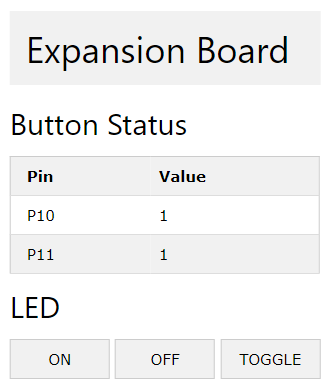
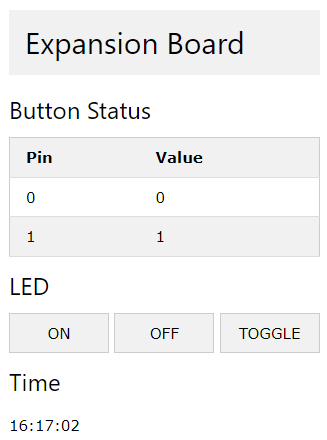
Add files via upload

diff --git a/index.html b/index.html
@@ -12,9 +12,9 @@
 <body>
   <div class="w3-container" style="width:fit-content">
     <div class="w3-panel w3-light-gray">
-      <h1> Expansion Board </h1>
+      <h2> Expansion Board </h2>
     </div>
-    <h2> Button Status </h2>
+    <h3> Button Status </h3>
     <table class="w3-table-all">
       <thead>
         <tr class="w3-light-grey">
@@ -23,13 +23,15 @@
         </tr>
       </thead>
       <tbody id="rows">
-        <!-- use Javascript to fill this space with the table content -->
+        <!-- use JavaScript to fill this space with the table content -->
       </tbody>
     </table>
-    <h2> LED </h2>
+    <h3> LED </h3>
     <button name="LED" value="On" onclick="onClickEvent(event)" class="w3-btn w3-border w3-light-gray" style="width:100px"> ON </button>
     <button name="LED" value="Off" onclick="onClickEvent(event)" class="w3-btn w3-border w3-light-gray" style="width:100px"> OFF </button>
     <button name="LED" value="On" onclick="onToggleEvent(event)" class="w3-btn w3-border w3-light-gray" style="width:100px"> TOGGLE </button>
+    <h3> Time </h3>
+    <p id="time"> hh:mm:ss </p>
   </div>
   <script>
     "use strict";
@@ -61,7 +63,7 @@
       console.log("fetch error:", error);
     }
 
-    // Click on the ON or OFF button
+    // Handle click on the ON or OFF button
     function onClickEvent(event) {
       var element = event.target;
       fetch("/api/button?".concat(element.name, "=", element.value))
@@ -73,7 +75,7 @@
         .catch(logError);
     }
 
-    // Click on the TOGGLE button
+    // Handle click on the TOGGLE button
     function onToggleEvent(event) {
       fetch("/api/toggle")
         .then(validateResponse)
@@ -95,10 +97,10 @@
         })
         .catch(logError);
 
-      // Setup client side event listener
-      const eventSource = new EventSource("/api/pin");
+      // Setup pin event listener
+      const pinEventSource = new EventSource("/api/pin");
 
-      eventSource.addEventListener("pin_change", (event) => {
+      pinEventSource.addEventListener("pin_change", (event) => {
         var data = JSON.parse(event.data);
         console.log("pin_change event:", event, "data:", data);
         for (var key in data) {
@@ -106,20 +108,32 @@
         }
       });
 
-      eventSource.onopen = (event) => {
-        console.log("pin_change open", event);
+      pinEventSource.onopen = (event) => {
+        console.log(pinEventSource.url, "open");
       };
 
-      eventSource.onmessage = (event) => {
-        console.log("message without event type, data =", event.data);
+      pinEventSource.onmessage = (event) => {
+        console.log(pinEventSource.url, "message without event type, data =", event.data);
       };
 
-      eventSource.onerror = (event) => {
-        console.log("pin_change error", event);
-        eventSource.close();  // release resources; only do this if you do not want auto reconnect
+      pinEventSource.onerror = (event) => {
+        console.log(pinEventSource.url, "error");
+        pinEventSource.close();  // release resources; only do this if you do not want auto reconnect
       };
 
-    }
+      // Setup time event listener
+      const timeEventSource = new EventSource("/api/time");
+
+      timeEventSource.addEventListener("time", (event) => {
+        document.getElementById("time").innerHTML = event.data;
+      });
+
+      timeEventSource.onerror = (event) => {
+        console.log(timeEventSource.url, "error");
+        timeEventSource.close();
+      };
+
+    }  // onLoadEvent
 
     window.onload = onLoadEvent();
   </script>

diff --git a/main.py b/main.py
@@ -1,4 +1,5 @@
 import json
+import time
 
 import uasyncio as asyncio
 from machine import Pin, Signal
@@ -6,7 +7,8 @@ from uasyncio import Event
 
 import abutton
 import expboard2
-from ahttpserver import (CRLF, MimeType, ResponseHeader, Server, StatusLine, sendfile)
+from ahttpserver import Server, sendfile
+from ahttpserver.response import CRLF, MimeType, ResponseHeader, StatusLine
 from ahttpserver.sse import EventSource
 
 
@@ -24,7 +26,6 @@ pb_event = Event()  # pushbutton event
 @app.route("GET", "/api/pin")
 async def api_pin(reader, writer, request):
     eventsource = await EventSource.upgrade(reader, writer)
-    await eventsource.retry(5000)
     while True:
         await pb_event.wait()
         pb_event.clear()
@@ -35,6 +36,18 @@ async def api_pin(reader, writer, request):
             await eventsource.send(event="pin_change", data=json.dumps(d))
         except Exception as e:  # catch (a.o.) ECONNRESET when the client has disappeared
             print("api_pin exception:", e)  # debug
+            break  # close connection
+
+
+@app.route("GET", "/api/time")
+async def api_time(reader, writer, request):
+    eventsource = await EventSource.upgrade(reader, writer)
+    while True:
+        await asyncio.sleep(1)
+        t = time.localtime()
+        try:
+            await eventsource.send(event="time", data=f"{t[3]:02d}:{t[4]:02d}:{t[5]:02d}")
+        except Exception:
             break  # close connection
 
 

diff --git a/README.md b/README.md
@@ -1,5 +1,5 @@
 # MicroPython web interface using server-sent events and JavaScript
-A MicroPython and JavaScript based web interface for a WiPy to control the LED and display the user button status on a Pycom Expansion Board 2.0
+A MicroPython and JavaScript based web user interface for a WiPy to control the LED and display the user button status on a Pycom Expansion Board 2.0
 
 ### Summary
 Pycoms Expansion Board 2.0 contains a user controllable led and a push-button. In [this repository](https://github.com/erikdelange/WiPy-2.0-Web-Interface) a simple web interface was presented to control this led and display the status of the button (plus one additional input pin). This solution has two disadvantages.
@@ -9,7 +9,7 @@ Pycoms Expansion Board 2.0 contains a user controllable led and a push-button. I
 This example shows how server-sent events and JavaScript help to solve these issues and streamline the communication between server and client.
 
 ### HTML and JavaScript
-The HTML code in *index.html* uses the W3.CSS framework for formatting the web page. The key elements to look for in the HTML code are the empty line where a javascript function will place the table body which holds the status of the WiPy's buttons, and the three buttons to switch the led on, off or toggle it.
+The HTML code in *index.html* uses the W3.CSS framework for formatting the web page. The key elements to look for in the HTML code are the empty line where a javascript function will place the table body which holds the status of the WiPy's buttons, and the three buttons to switch the led on, off or toggle it. Additionally, the page contains a placeholder which the server will update with the current time.
 
 The JavaScript code consists of three event handlers. *onLoadEvent()* is run once, immediately after the page has been loaded. It requests the initial content of the button table from the server, and starts listening to the server for changes to the expansion boards button status. Event handlers *onClickEvent()* and *onToggleEvent()* are fired when one of the three buttons in the UI is clicked, and inform the server of this fact.
 
@@ -26,22 +26,22 @@ If the server returns data in its reply function then function *onClickEvent()* 
 
 Instead of the client polling for changes in the button status, I'm using server-sent events. This creates a connection from the server to the client which stays open. The server can then publish updates via this connection. An event listener on the client is started which listens to a specific event of type 'pin_change'.
 ``` JavaScript
-// Setup server sent event listener
+// Setup pin event listener
 const eventSource = new EventSource("/api/pin");
 
 eventSource.addEventListener("pin_change", (event) => {
   console.log("pin_change event:", event, "data:", data);
 });
 ```
-
+The browser listen for two events. Upon receipt of a 'time' event the current time on the page is updated, and when receiving a 'pin_change' event the table with the button status is refreshed.
 ### Python Code
-Interaction with the UI is handled via a small HTTP server, which can be found in package [*ahttpserver*](https://github.com/erikdelange/MicroPython-HTTP-Server).
+Interaction between the microcontroller and the UI is handled via a small HTTP server, which can be found in package [*ahttpserver*](https://github.com/erikdelange/MicroPython-HTTP-Server).
 
 #### Connection Keep-Alive
-A GET request for path "/api/pin" is special as it keeps the connection to the client open for sending updates. So, the connection handler does not return until the client has disappeared or closed the connection. An EventSource object is used to communicate with the client to make sure the information sent conforms to the event stream format (but you could also arrange this by hand).
+A GET request for paths "/api/pin" and "/api/time" is special as it keeps the connection to the client open for sending updates. So, the connection handler does not return until the client has disappeared or closed the connection. An EventSource object is used to communicate with the client to make sure the information sent conforms to the event stream format (but you could also arrange this by hand).
 
 #### Pin change interrupt
-An interrupt callback is attached to expansion boards button i.e. pin object. On every pin level change it is called and sets an asyncio Event. The connection handler for "/api/pin" is waiting for this event to be set, and then wakes up to send the new button status to the client (of course only if a client has previously expressed its interest in this event). To see this in action keep the button on your Expansion Board pressed for a few seconds and watch the UI.
+Callbacks are attached to the expansion boards button. On button press or release one is called and sets an asyncio Event (called pb_event). The connection handler for "/api/pin" is waiting for this event to be set, and then wakes up to send the new button status to the client (of course only if a client has previously expressed its interest in this event). To see this in action keep the button on your Expansion Board pressed for a few seconds and watch the UI.
 ``` Python
 from uasyncio import Event
 
@@ -61,6 +61,7 @@ async def api_pin(reader, writer, request):
         except Exception as e:  # catch (a.o.) ECONNRESET when the client has disappeared
             break  # close connection
 ```
+The time connection handler *api_time* just wakes up every second and sends the current time in string format to the client.
 
 The resulting web page looks like this.
 
@@ -69,7 +70,7 @@ The resulting web page looks like this.
 The JavaScript code in index.html prints various logging messages. Use F12 on Chrome or Edge and have a look these messages in the console.
 
 ### Using
-* WiPy 3.0 using the official MicroPython firmware from micropyton.org instead of Pycom's variant
+* WiPy 3.0 using the official MicroPython firmware from micropython.org instead of Pycom's variant
 * MicroPython v1.19.1 on 2022-11-03; ESP32 module (spiram) with ESP32
 * Pycom Expansion Board 2
 * Package *ahttpserver* which can be found [here](https://github.com/erikdelange/MicroPython-HTTP-Server).
